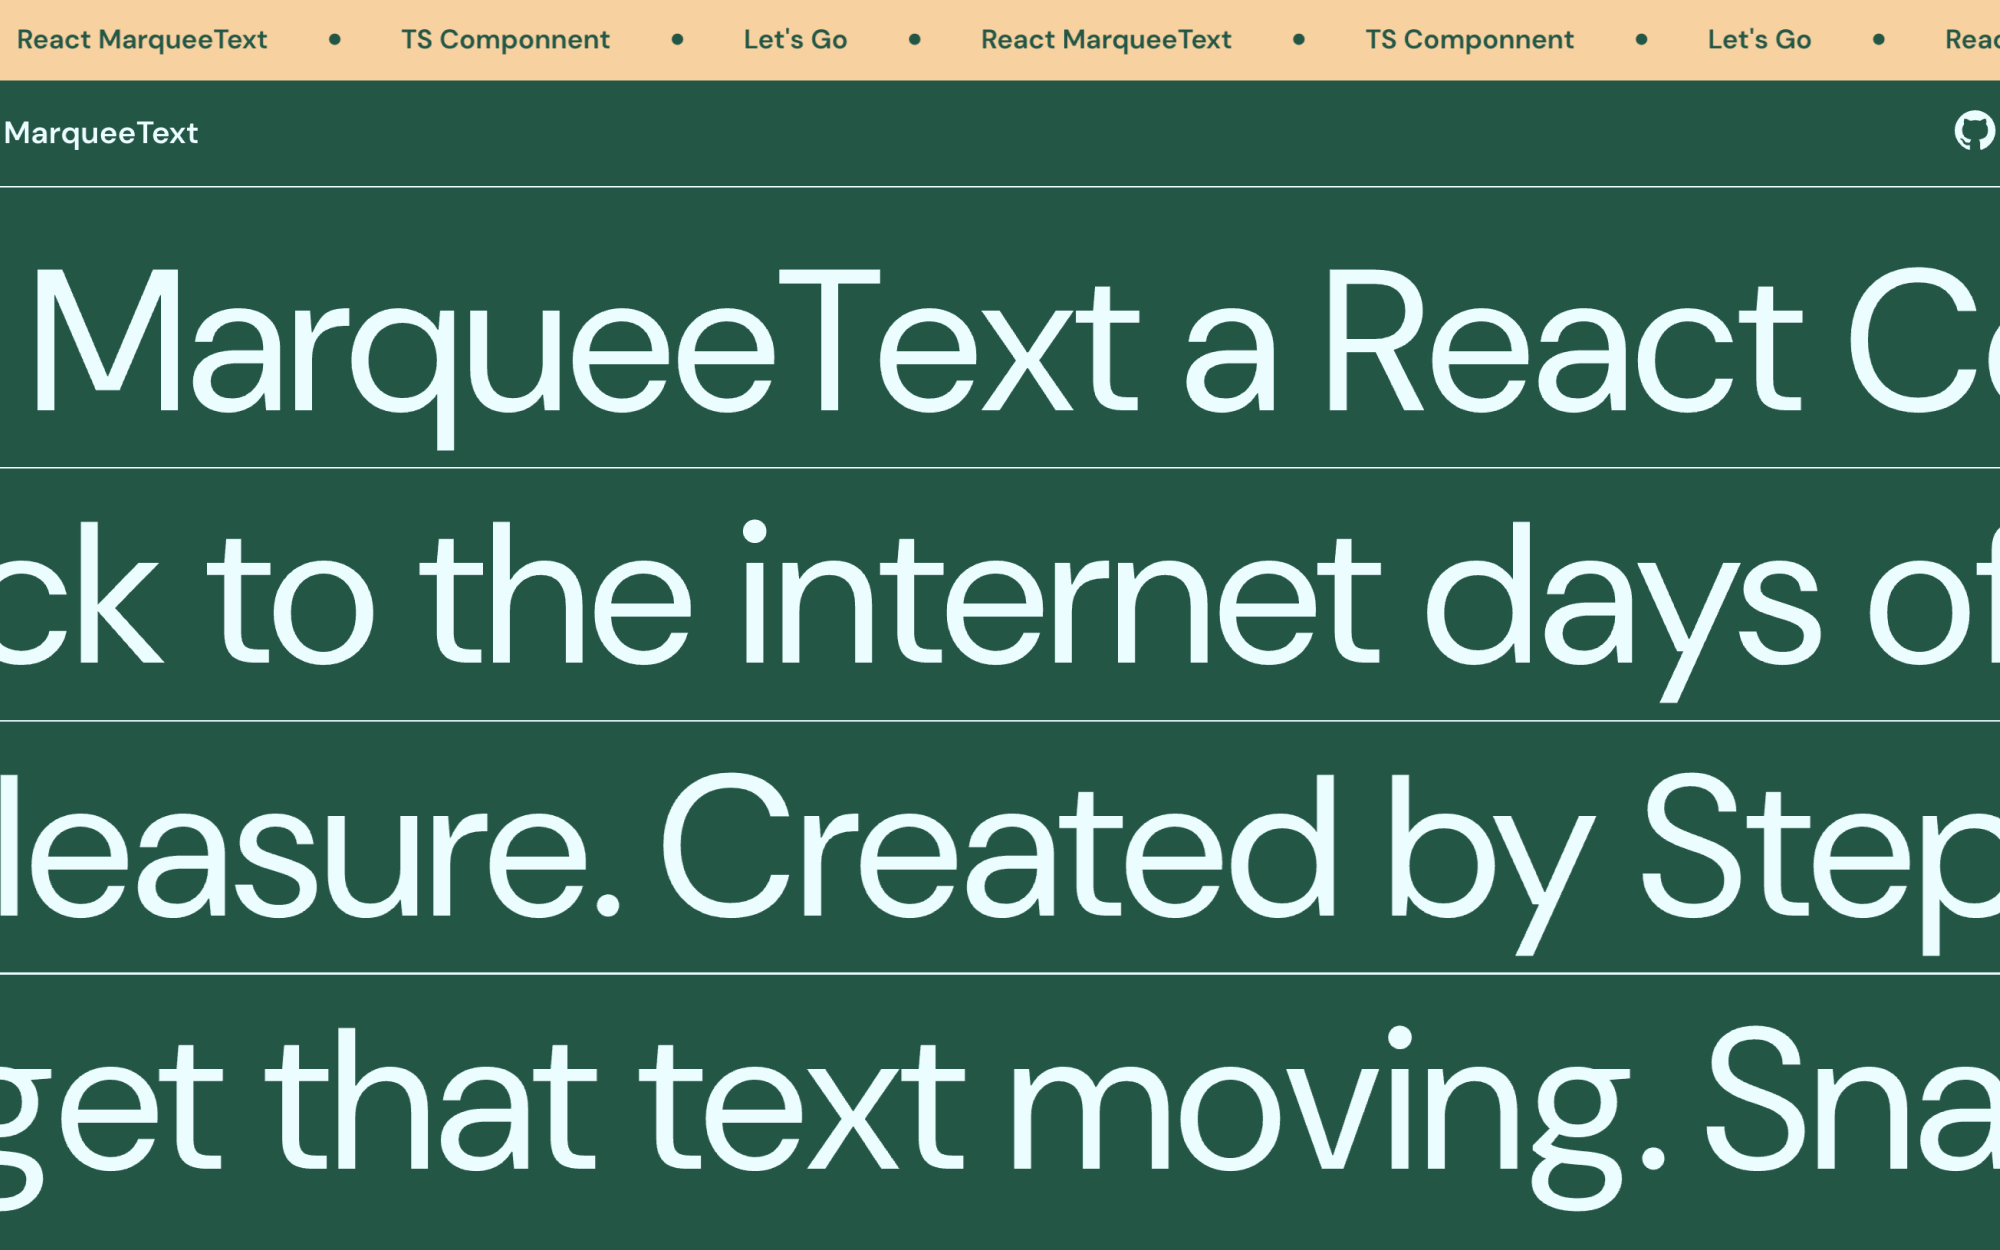
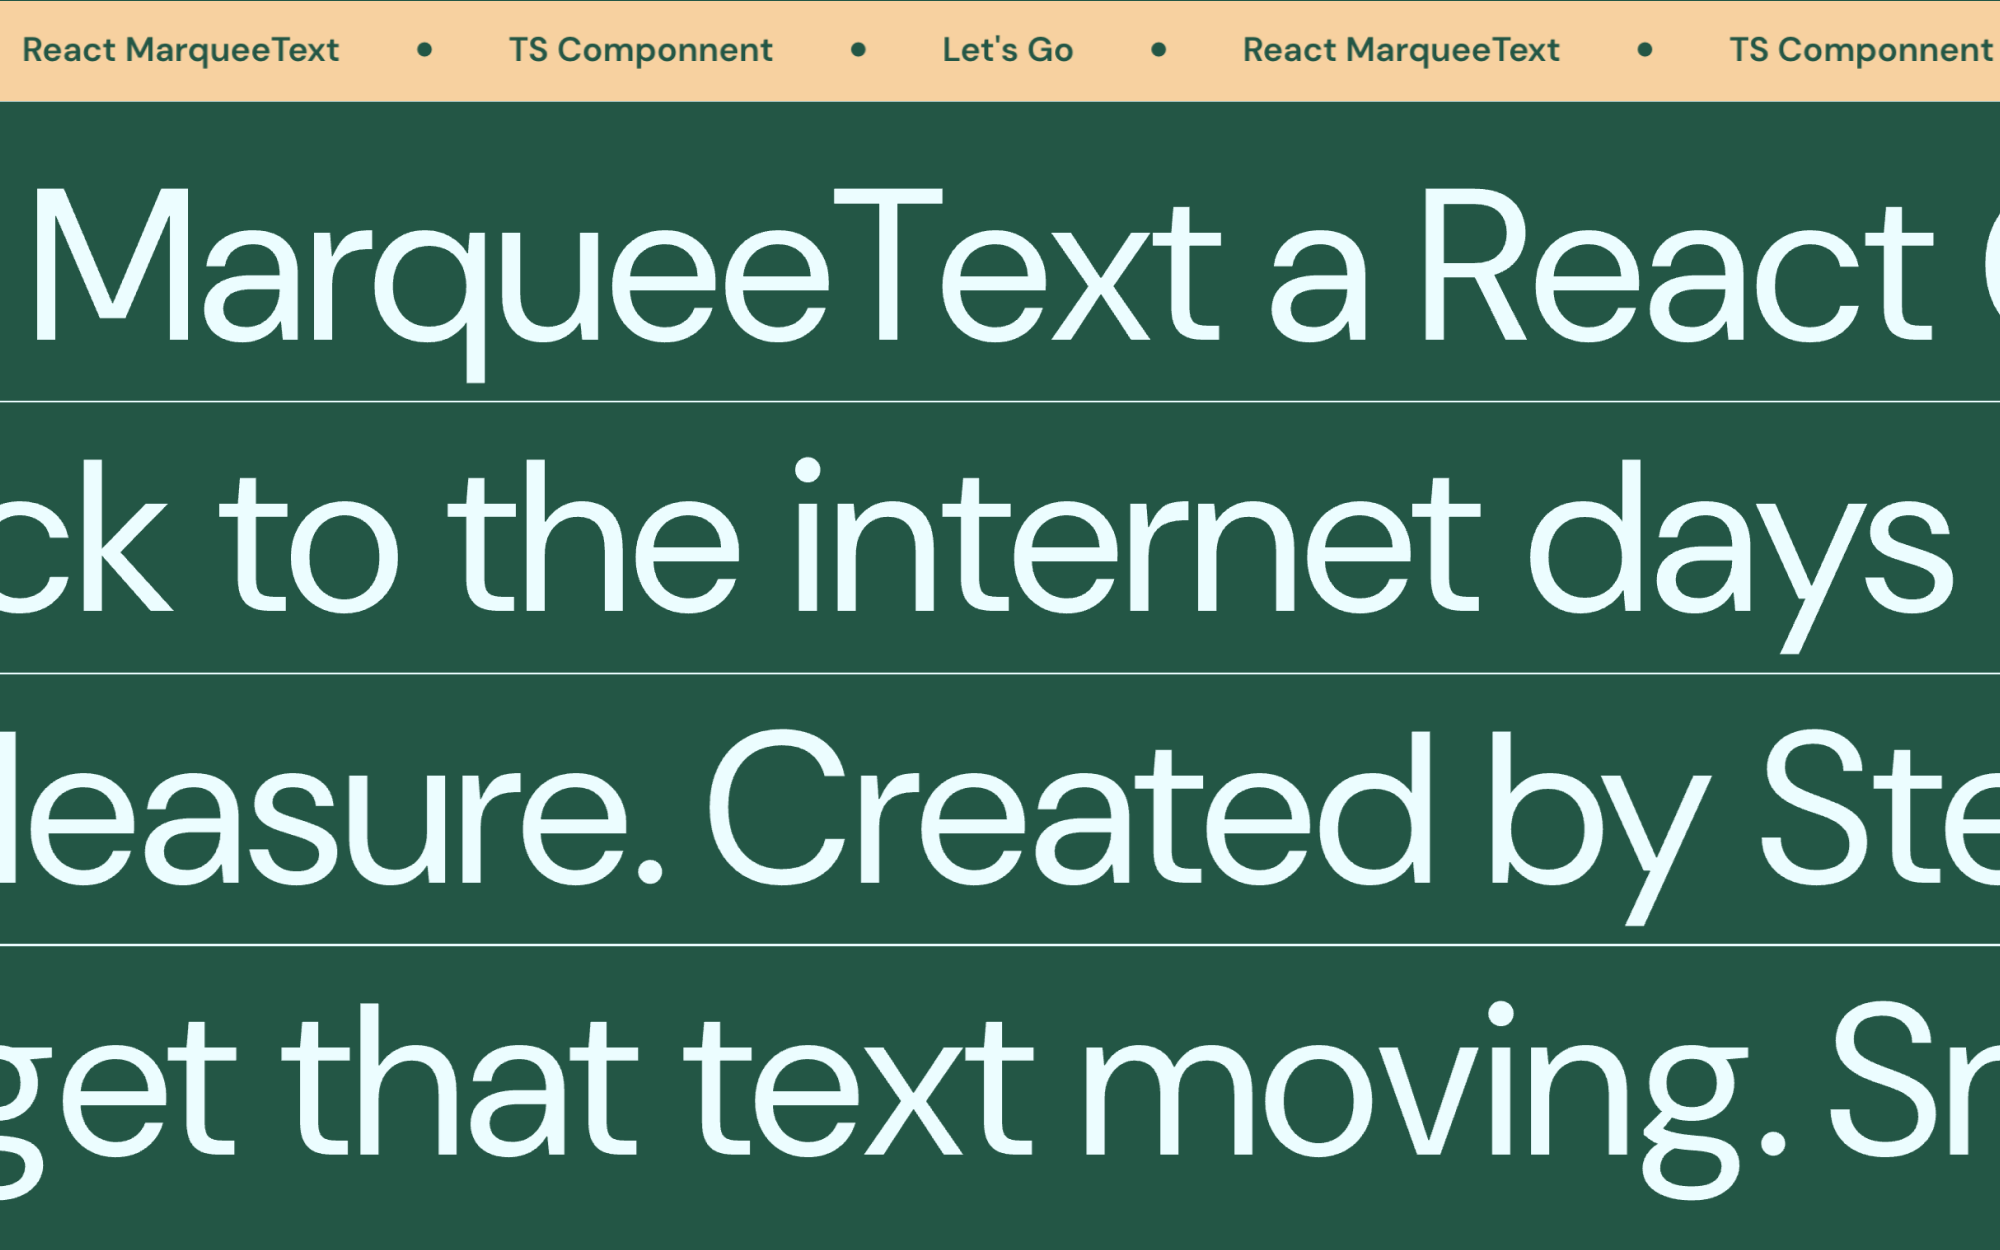
docs - upated g fonts

Changed region(s): [[0.0, 0.0, 1.0, 0.5616], [0.0, 0.5616, 1.0, 0.9672]]

diff --git a/docs/src/index.html b/docs/src/index.html
@@ -18,8 +18,7 @@
     <link rel="stylesheet" href="./styles/app.scss"/>
     <link rel="preconnect" href="https://fonts.googleapis.com">
   <link rel="preconnect" href="https://fonts.gstatic.com" crossorigin>
-  <link href="https://fonts.googleapis.com/css2?family=DM+Mono:wght@300&family=Figtree:wght@300;400;600&display=swap" rel="stylesheet">
-<link href="https://fonts.googleapis.com/css2?family=DM+Sans:opsz,wght@9..40,300;9..40,400;9..40,600&family=IBM+Plex+Sans:wght@200" rel="stylesheet">
+  <link href="https://fonts.googleapis.com/css2?family=DM+Mono:wght@300&DM+Sans:opsz,wght@9..40,300;9..40,400;9..40,600&display=swap" rel="stylesheet">
 </head>
 <body>
   <noscript>

diff --git a/docs/src/styles/_tokens.scss b/docs/src/styles/_tokens.scss
@@ -37,7 +37,7 @@
   --color-text-light: var(--color-accent-1);
   --color-text-on-background-light: var(--color-accent-3);
   --color-text-code: var(--color-accent-1);
-  --color-link: var(--color-accent-3);
+
   --color-background-dark: var(--color-accent-3);
   --color-background-light: var(--color-accent-2);
   --color-background-code: var(--color-accent-4);
